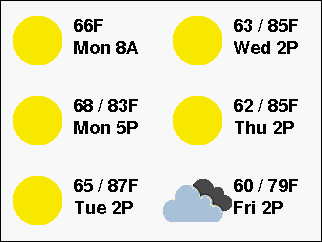
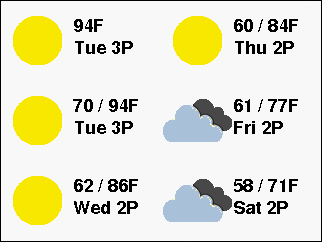
Reflect changes to what is displayed in the ForecastScreen

diff --git a/doc/MultiMonGUI.md b/doc/MultiMonGUI.md
@@ -146,9 +146,11 @@ The units (metric or imperial) are configured in the Web UI.
 <a name="forecast-screen"></a>
 ### Forecast Screen
 
-The Forecast Screen uses [OpenWeatherMap.org](http://OpenWeatherMap.org) to get the forecast for the city that was configured using the Web UI. The screen displays 6 forecasts arranged in two columns. It starts with the forecast for the next 3 hours. After that it presents the 5-day day forecast. They are ordered from top top bottom, left to right.
+The Forecast Screen uses [OpenWeatherMap.org](http://OpenWeatherMap.org) to get the 5-day forecast for the city that was configured using the Web UI. The screen is arranged as two columns with 3 forecasts each for a total of six cells. They are ordered chronologically from top to bottom, left to right. We use the first cell for the current temperature. The rest of the cells are the 5-day forecast.
 
-Each cell shows an icon representing the weather condition (e.g. Sunny or Rain), the low/high temperature, and the day / hour when the high will occur. Since the first forecast is just for a single 3 hour period, it only shows the average temperature (not high and low).
+Each cell shows an icon representing the weather condition (e.g. Sunny or Rain), the low/high temperature for the day, and the day/hour when the high will occur. Obviously the weather conditions can change throughout the day but there is only space to display one weather condition icon. To accomodate this I display the weather condition icon corresponding to the time of the high temperature.
+
+Note: Since the first entry corresponds to the current conditions, it only shows one temperature (not high and low). The hour displayed is the hour when the reading was taken.
 
 ![](images/ss/ForecastScreen.png)
 
